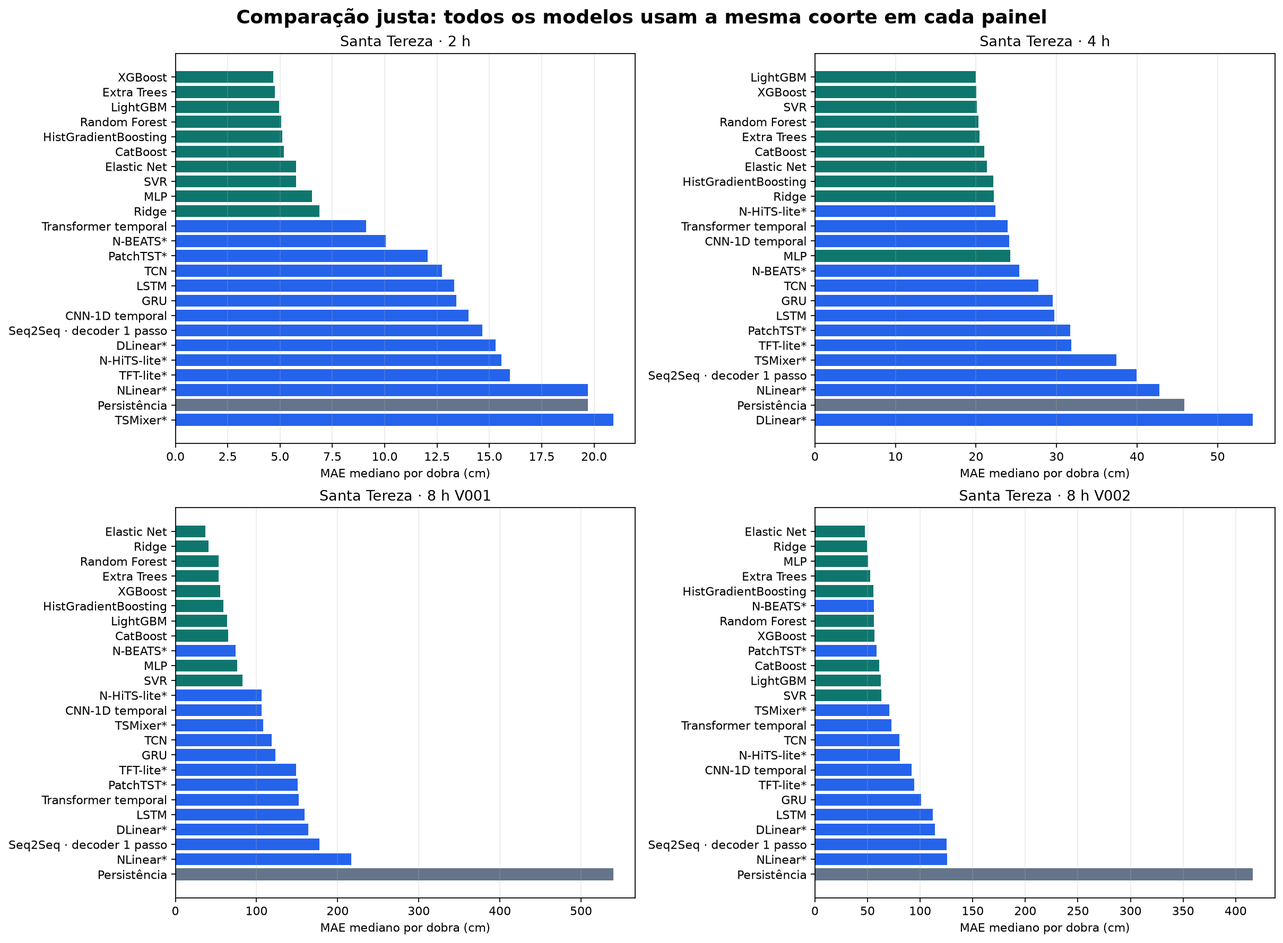
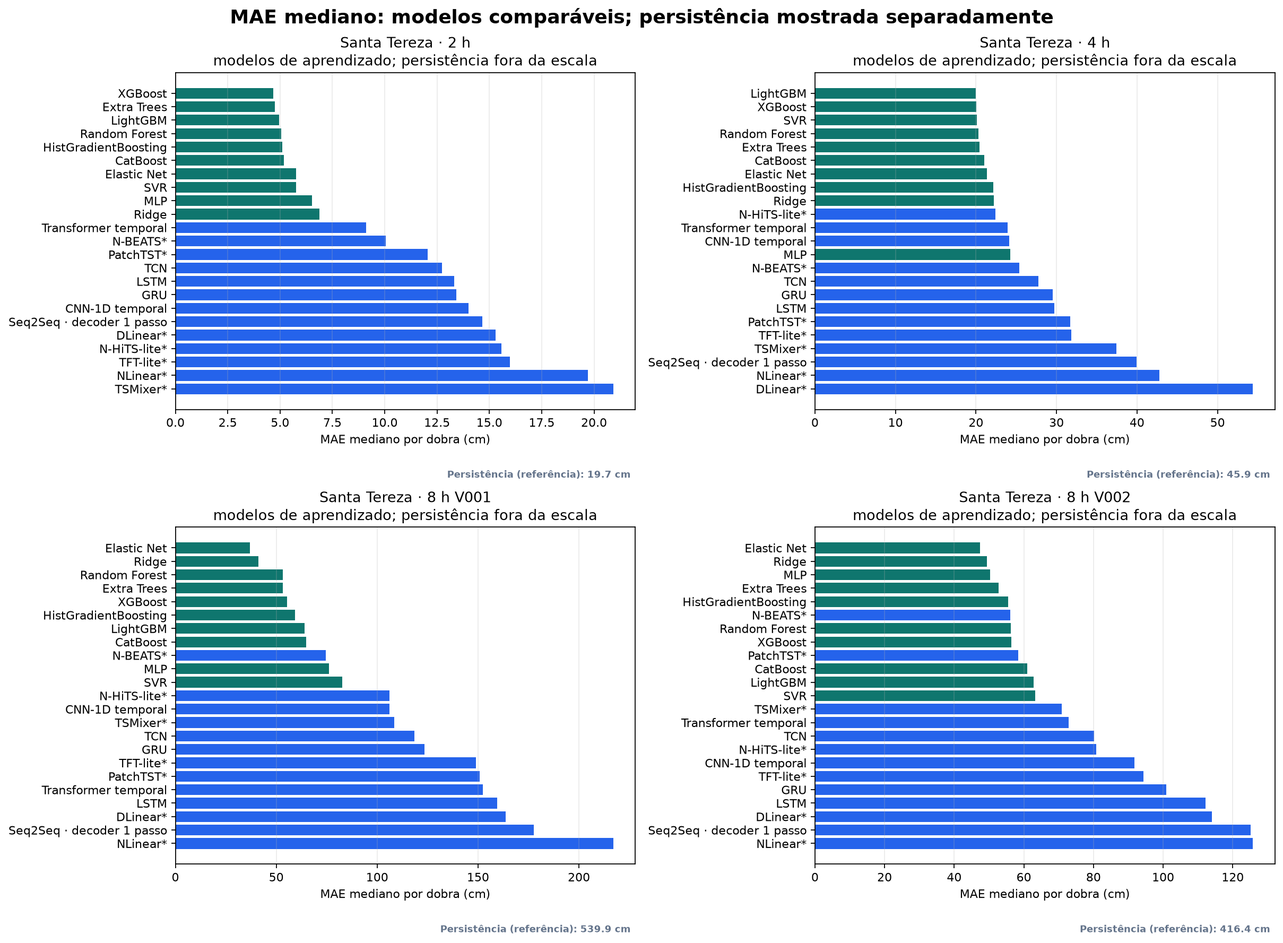
Integrate live reference and clarify persistence baseline

Changed region(s): [[0.0, 0.0, 1.0, 0.9904]]

diff --git a/pesquisas/relatorio-comparacao-justa-santa-tereza-2026/index.html b/pesquisas/relatorio-comparacao-justa-santa-tereza-2026/index.html
@@ -1,16 +1,19 @@
 <!doctype html><html lang='pt-BR'><head><meta charset='utf-8'><meta name='viewport' content='width=device-width,initial-scale=1'><title>Comparação justa de modelos · Santa Tereza</title><style>
 :root{--ink:#102a35;--muted:#58727c;--paper:#f4f7f5;--card:#fff;--line:#d8e4e1;--teal:#0f766e;--blue:#2563eb;--gold:#d97706;}*{box-sizing:border-box}body{margin:0;background:linear-gradient(135deg,#edf7f3,#f8f5ee 55%,#eef4fb);color:var(--ink);font:16px/1.55 Inter,Segoe UI,Arial,sans-serif}main{width:min(1320px,calc(100% - 32px));margin:24px auto 64px}header{padding:34px;border-radius:26px;background:#0c3b35;color:white;box-shadow:0 18px 50px #0c3b3524}header .eyebrow{letter-spacing:.12em;text-transform:uppercase;font-weight:800;color:#a7f3d0;font-size:.78rem}h1{font-size:clamp(2rem,4vw,3.5rem);line-height:1.02;margin:.5rem 0 1rem;max-width:1000px}header p{max-width:980px;color:#d7f1e8;font-size:1.08rem}.warning{margin-top:18px;background:#fff5d8;color:#5d4200;padding:14px 16px;border-left:5px solid #f59e0b;border-radius:12px}h2{margin:38px 0 12px;font-size:1.65rem}h3{margin:.1rem 0 .45rem;font-size:1.1rem}.summary{display:grid;grid-template-columns:repeat(3,1fr);gap:14px;margin:18px 0}.summary article,.metric,.card,.winner-card{background:var(--card);border:1px solid var(--line);border-radius:18px;padding:18px;box-shadow:0 10px 26px #12332b0d}.summary strong{display:block;font-size:1.35rem;margin-bottom:5px}.grid{display:grid;grid-template-columns:repeat(2,1fr);gap:16px}.read-first,.note,.formula,.legend{background:#fff;border:1px solid var(--line);border-radius:18px;padding:18px;margin:16px 0}.read-first{border-left:6px solid var(--teal)}.note{background:#fff7e8;border-left:6px solid var(--gold)}.formula{background:#eef6ff;border-left:6px solid var(--blue);font-size:1.05rem}.flow{display:grid;grid-template-columns:repeat(4,1fr);gap:10px;margin-top:14px}.flow div{background:#edf7f3;border:1px solid #c8e4db;border-radius:13px;padding:13px;font-weight:700}.flow small{display:block;font-weight:400;margin-top:5px}.winner-grid{display:grid;grid-template-columns:repeat(4,1fr);gap:12px;margin:16px 0}.winner-card{border-top:5px solid var(--teal)}.winner-card strong,.winner-card b,.winner-card span,.winner-card small{display:block}.winner-card b{font-size:1.15rem;margin:.35rem 0;color:var(--teal)}.winner-card span{font-size:.94rem}.winner-card small{margin-top:7px;color:#9a5b00}.tag{display:inline-block;border-radius:999px;padding:3px 9px;font-size:.82rem;font-weight:700;margin-right:6px}.tag.teal{background:#d8f3e9;color:#0f766e}.tag.blue{background:#dceaff;color:#1d4ed8}.tag.gray{background:#e9eef2;color:#475569}.table-note{color:var(--muted);font-size:.94rem;margin:8px 0 12px}.table-wrap{overflow:auto;background:white;border:1px solid var(--line);border-radius:18px}table{width:100%;border-collapse:collapse;min-width:1100px}th,td{padding:10px 12px;text-align:left;border-bottom:1px solid #e7eeec;vertical-align:top}th{position:sticky;top:0;background:#e9f3f0;font-size:.78rem;text-transform:uppercase;letter-spacing:.045em}figure{margin:18px 0;background:white;border:1px solid var(--line);border-radius:20px;padding:12px}figure img{display:block;width:100%;height:auto;border-radius:12px}code{background:#e8efed;padding:.15em .35em;border-radius:5px}small,span{color:var(--muted)}.method li{margin:.45rem 0}footer{margin-top:40px;color:var(--muted);font-size:.9rem;border-top:1px solid var(--line);padding-top:18px}.empty{background:white;border:1px dashed var(--line);padding:18px;border-radius:14px}@media(max-width:900px){.summary,.grid,.winner-grid{grid-template-columns:1fr}.flow{grid-template-columns:1fr 1fr}main{width:min(100% - 18px,1320px);margin-top:9px}header{padding:23px;border-radius:18px}h1{font-size:2.15rem}th,td{padding:9px}}
-</style></head><body><main><header><div class='eyebrow'>PREVINE · pesquisa experimental · comparação justa</div><h1>Todos os modelos recebem os mesmos dados antes de serem comparados.</h1><p>Rodada congelada de Santa Tereza: quatro coortes, quatro planilhas de origem, janela fixa de 4 h, mesmas linhas-alvo, mesmas dobras causais e mesma definição do erro.</p><div class='warning'><strong>Não é alerta nem modelo promovido.</strong> Este relatório é um experimento offline. A RNA atual do site e GNN/Transformer-GNN ficam fora do ranking principal quando não podem obedecer ao mesmo contrato.</div></header>
+ </style></head><body><main><header><div class='eyebrow'>PREVINE · pesquisa experimental · ao vivo + comparação controlada</div><h1>Dois resultados na mesma página, com os contratos claramente separados.</h1><p>Primeiro, a referência dos modelos que estavam publicados/ao vivo. Depois, a comparação controlada: quatro coortes, quatro planilhas de origem, janela fixa de 4 h, mesmas linhas-alvo, mesmas dobras causais e mesma definição do erro.</p><div class='warning'><strong>Não é alerta nem modelo promovido.</strong> A primeira tabela é uma referência histórica do ao vivo. O ranking principal é o benchmark controlado da segunda rodada. A RNA atual do site e GNN/Transformer-GNN ficam fora do ranking controlado quando não podem obedecer ao mesmo contrato.</div></header>
 <section class='summary'><article><strong>4 coortes congeladas</strong><span>2 h, 4 h, 8 h V001 e 8 h V002</span></article><article><strong>960 execuções concluídas</strong><span>0 falhas registradas separadamente</span></article><article><strong>1 regra de comparação</strong><span>mesmas linhas, eventos, dobras, alvo e métricas dentro de cada coorte</span></article></section>
 <section class='read-first'><h2>Leia isto primeiro: qual foi a comparação?</h2><div class='formula'><strong>Em cada horário elegível:</strong> <code>últimas 4 horas observadas</code> → <code>modelo</code> → <code>variação do nível no horizonte</code>.<br><strong>Alvo:</strong> <code>nível observado em t + horizonte − nível observado em t</code>.</div><p><strong>Resposta direta:</strong> sim, os modelos de uma mesma coorte receberam exatamente as mesmas linhas, variáveis e eventos. A diferença entre eles é o algoritmo. Existem quatro planilhas porque são quatro contratos de previsão diferentes: 2 h, 4 h, 8 h V001 e 8 h V002. Elas não foram misturadas porque isso mudaria o alvo e deixaria a comparação injusta.</p><div class='flow'><div>1 · mesma fonte<small>uma planilha/aba por coorte</small></div><div>2 · mesmo recorte<small>mesmas linhas-alvo elegíveis</small></div><div>3 · mesmo teste<small>mesmos eventos em ordem temporal</small></div><div>4 · métricas iguais<small>MAE, RMSE, NSE e pico</small></div></div></section>
+<h2>Rodada 1 — modelos publicados/ao vivo</h2><div class='note'><strong>O que esta tabela responde:</strong> “Como os modelos que estavam no ao vivo se saíram no teste-fonte usado na rodada anterior?”<br>Esta tabela é a referência da rodada anterior usando as saídas/cache dos modelos publicados. Ela serve para acompanhar o que já estava no ao vivo, mas não é o ranking principal porque usou janelas históricas diferentes e um teste-fonte separado.<br><strong>Não compare esta tabela diretamente com o ranking controlado abaixo:</strong> a rodada anterior usou janelas de 48 h, 24 h ou 4 h, dependendo do contrato, e um conjunto de teste-fonte separado.</div><div class='table-wrap'><table><thead><tr><th>Coorte</th><th>Modelo publicado/ao vivo</th><th>Janela usada (h)</th><th>Evento(s) de teste</th><th>Eventos</th><th>MAE (cm)</th><th>RMSE (cm)</th><th>NSE</th><th>Atraso abs. do pico (h)</th></tr></thead><tbody><tr><td>Santa Tereza · 2 h</td><td>RNA ao vivo · principal (009_alt...)</td><td>48</td><td>15|16</td><td>2</td><td>2.76</td><td>3.58</td><td>0.98</td><td>0.00</td></tr><tr><td>Santa Tereza · 2 h</td><td>RNA ao vivo · shadow B</td><td>48</td><td>15|16</td><td>2</td><td>3.01</td><td>3.65</td><td>0.98</td><td>0.00</td></tr><tr><td>Santa Tereza · 4 h</td><td>RNA ao vivo · 4H_ALT V01</td><td>24</td><td>13</td><td>1</td><td>13.07</td><td>22.19</td><td>0.99</td><td>2.00</td></tr><tr><td>Santa Tereza · 8 h V001</td><td>RNA ao vivo · 8h V001</td><td>4</td><td>3</td><td>1</td><td>23.80</td><td>34.06</td><td>0.93</td><td>0.00</td></tr><tr><td>Santa Tereza · 8 h V002</td><td>RNA ao vivo · 8h V002</td><td>4</td><td>3</td><td>1</td><td>22.87</td><td>37.00</td><td>0.68</td><td>0.00</td></tr></tbody></table></div><p class='table-note'><a href='source_holdout_metrics_rodada_anterior.csv'>Abrir a tabela bruta da rodada anterior</a> · os valores estão preservados para rastreabilidade.</p>
+<h2>Rodada 2 — comparação controlada no mesmo recorte</h2>
 <h2>O que foi igual</h2><div class='summary'><article><strong>Mesmas planilhas</strong><span>cada painel usa uma única planilha-fonte auditada, sem misturar V001 com V002.</span></article><article><strong>Mesmas linhas-alvo</strong><span>todos os modelos usam o mesmo conjunto de horários elegíveis após a janela de 4 h.</span></article><article><strong>Mesmas dobras</strong><span>eventos inteiros em ordem causal; treino, validação e teste são compartilhados pelos modelos.</span></article></div>
 <h2>Coortes usadas</h2><p>“Coorte” significa o conjunto de dados de um contrato específico. O número de <strong>eventos da coorte</strong> abaixo é o total disponível após os filtros. Na tabela, <strong>eventos de teste</strong> é somente o subconjunto que aparece como teste nas dobras causais — por isso os dois números podem ser diferentes.</p><div class='summary'><article><strong>Santa Tereza · 2 h</strong><span>2502 linhas-alvo · 21 eventos · 12 dobras</span><small>planilha: 2H_ALT__009_alt_STZ_2H_R09_T10-15-16_V1-5-12-17-21.xlsx<br>features/hora: 15 · janela fixa: 4 h</small></article><article><strong>Santa Tereza · 4 h</strong><span>1798 linhas-alvo · 22 eventos · 13 dobras</span><small>planilha: 4H_ALT__V01_R00_BASELINE_nh52_nit10_cic100000.xlsx<br>features/hora: 26 · janela fixa: 4 h</small></article><article><strong>Santa Tereza · 8 h V001</strong><span>1091 linhas-alvo · 22 eventos · 11 dobras</span><small>planilha: modelo_8h_V001_CORRIGIDO_GUARDAS_20260825_235111.xlsx<br>features/hora: 31 · janela fixa: 4 h</small></article><article><strong>Santa Tereza · 8 h V002</strong><span>478 linhas-alvo · 15 eventos · 4 dobras</span><small>planilha: modelo_8h_V002_CORRIGIDO_GUARDAS_20260825_235111.xlsx<br>features/hora: 28 · janela fixa: 4 h</small></article></div><div class='note'><strong>Por que V002 exige mais cautela?</strong> Ele tem somente 4 dobras causais. O resultado foi mantido porque é útil para investigação, mas tem menos evidência do que os contratos com 11–13 dobras.</div>
 <h2>Como ler o resultado</h2><div class='grid'><article class='card'><h3>Ranking</h3><p>A posição é calculada dentro de cada coorte: primeiro pela mediana do MAE entre as dobras e, em caso de proximidade, pelo RMSE. Não é uma classificação única para todos os horizontes.</p></article><article class='card'><h3>O que é uma dobra?</h3><p>Uma dobra é uma repetição temporal: eventos anteriores treinam, um evento seguinte valida e o próximo evento é testado. Nenhum evento futuro volta para o passado.</p></article><article class='card'><h3>O que significa “melhor”?</h3><p>MAE, RMSE e erro do pico menores são melhores. NSE mais próximo de 1 é melhor. Atraso do pico mais próximo de 0 h é melhor.</p></article><article class='card'><h3>Não compare cm entre horizontes</h3><p>4,68 cm em 2 h não pode ser comparado diretamente com 36,98 cm em 8 h. O horizonte mais longo é outro problema, com outra dificuldade e outro alvo.</p></article></div><div class='legend'><strong>Famílias nos gráficos:</strong> <span class='tag teal'>tabular/boosting</span><span class='tag blue'>redes temporais</span><span class='tag gray'>baseline</span></div>
 <h2>Melhor resultado por coorte</h2><p>Estas são as melhores posições dentro de cada contrato, não um vencedor universal do PREVINE.</p><div class='winner-grid'><article class='winner-card'><strong>Santa Tereza · 2 h</strong><b>XGBoost</b><span>MAE mediano: 4.68 cm · RMSE: 7.82 cm</span><small></small></article><article class='winner-card'><strong>Santa Tereza · 4 h</strong><b>LightGBM</b><span>MAE mediano: 20.00 cm · RMSE: 29.57 cm</span><small></small></article><article class='winner-card'><strong>Santa Tereza · 8 h V001</strong><b>Elastic Net</b><span>MAE mediano: 36.98 cm · RMSE: 49.72 cm</span><small></small></article><article class='winner-card'><strong>Santa Tereza · 8 h V002</strong><b>Elastic Net</b><span>MAE mediano: 47.48 cm · RMSE: 53.53 cm</span><small>Amostra mais curta: apenas 4 dobras causais.</small></article></div>
 <h2>Resultado comparável — tabela completa</h2><p class='table-note'>A tabela é mais larga que a tela do celular. Deslize horizontalmente para ver as colunas finais. Para uma primeira leitura, use os cartões acima e os gráficos abaixo.</p><div class='table-wrap'><table><thead><tr><th>Coorte</th><th>Modelo</th><th>Família</th><th>Dobras causais</th><th>Eventos de teste</th><th>MAE mediano (cm)</th><th>RMSE mediano (cm)</th><th>NSE mediano</th><th>Erro do pico (cm)</th><th>Atraso do pico (h)</th><th>Posição</th></tr></thead><tbody><tr><td>Santa Tereza · 2 h</td><td>XGBoost</td><td>tabular/boosting</td><td>12</td><td>12</td><td>4.68</td><td>7.82</td><td>1.00</td><td>3.49</td><td>0.00</td><td>1</td></tr><tr><td>Santa Tereza · 2 h</td><td>Extra Trees</td><td>tabular/boosting</td><td>12</td><td>12</td><td>4.75</td><td>8.12</td><td>1.00</td><td>4.25</td><td>0.00</td><td>2</td></tr><tr><td>Santa Tereza · 2 h</td><td>LightGBM</td><td>tabular/boosting</td><td>12</td><td>12</td><td>4.95</td><td>8.67</td><td>1.00</td><td>5.22</td><td>0.00</td><td>3</td></tr><tr><td>Santa Tereza · 2 h</td><td>Random Forest</td><td>tabular/boosting</td><td>12</td><td>12</td><td>5.06</td><td>8.47</td><td>1.00</td><td>4.14</td><td>0.00</td><td>4</td></tr><tr><td>Santa Tereza · 2 h</td><td>HistGradientBoosting</td><td>tabular/boosting</td><td>12</td><td>12</td><td>5.10</td><td>8.81</td><td>1.00</td><td>5.07</td><td>0.00</td><td>5</td></tr><tr><td>Santa Tereza · 2 h</td><td>CatBoost</td><td>tabular/boosting</td><td>12</td><td>12</td><td>5.18</td><td>8.50</td><td>1.00</td><td>6.07</td><td>0.50</td><td>6</td></tr><tr><td>Santa Tereza · 2 h</td><td>Elastic Net</td><td>tabular/boosting</td><td>12</td><td>12</td><td>5.76</td><td>8.45</td><td>1.00</td><td>6.20</td><td>0.00</td><td>7</td></tr><tr><td>Santa Tereza · 2 h</td><td>SVR</td><td>tabular/boosting</td><td>12</td><td>12</td><td>5.76</td><td>8.52</td><td>1.00</td><td>5.57</td><td>1.00</td><td>8</td></tr><tr><td>Santa Tereza · 2 h</td><td>MLP</td><td>tabular/boosting</td><td>12</td><td>12</td><td>6.54</td><td>9.23</td><td>1.00</td><td>9.77</td><td>0.00</td><td>9</td></tr><tr><td>Santa Tereza · 2 h</td><td>Ridge</td><td>tabular/boosting</td><td>12</td><td>12</td><td>6.88</td><td>8.96</td><td>1.00</td><td>8.50</td><td>0.00</td><td>10</td></tr><tr><td>Santa Tereza · 2 h</td><td>Transformer temporal</td><td>temporal neural</td><td>12</td><td>12</td><td>9.11</td><td>12.52</td><td>0.99</td><td>21.47</td><td>1.00</td><td>11</td></tr><tr><td>Santa Tereza · 2 h</td><td>N-BEATS experimental</td><td>temporal neural</td><td>12</td><td>12</td><td>10.06</td><td>14.84</td><td>0.99</td><td>9.12</td><td>1.00</td><td>12</td></tr><tr><td>Santa Tereza · 2 h</td><td>PatchTST experimental</td><td>temporal neural</td><td>12</td><td>12</td><td>12.05</td><td>17.90</td><td>0.98</td><td>18.73</td><td>1.00</td><td>13</td></tr><tr><td>Santa Tereza · 2 h</td><td>TCN</td><td>temporal neural</td><td>12</td><td>12</td><td>12.75</td><td>17.87</td><td>0.98</td><td>7.57</td><td>1.00</td><td>14</td></tr><tr><td>Santa Tereza · 2 h</td><td>LSTM</td><td>temporal neural</td><td>12</td><td>12</td><td>13.31</td><td>19.05</td><td>0.98</td><td>12.18</td><td>1.00</td><td>15</td></tr><tr><td>Santa Tereza · 2 h</td><td>GRU</td><td>temporal neural</td><td>12</td><td>12</td><td>13.42</td><td>18.78</td><td>0.98</td><td>14.90</td><td>1.00</td><td>16</td></tr><tr><td>Santa Tereza · 2 h</td><td>CNN-1D temporal</td><td>temporal neural</td><td>12</td><td>12</td><td>14.00</td><td>19.47</td><td>0.98</td><td>15.18</td><td>1.00</td><td>17</td></tr><tr><td>Santa Tereza · 2 h</td><td>Seq2Seq · decoder 1 passo</td><td>temporal neural</td><td>12</td><td>12</td><td>14.67</td><td>22.05</td><td>0.97</td><td>12.46</td><td>1.00</td><td>18</td></tr><tr><td>Santa Tereza · 2 h</td><td>DLinear experimental</td><td>temporal neural</td><td>12</td><td>12</td><td>15.29</td><td>20.63</td><td>0.98</td><td>14.02</td><td>1.00</td><td>19</td></tr><tr><td>Santa Tereza · 2 h</td><td>N-HiTS-lite experimental</td><td>temporal neural</td><td>12</td><td>12</td><td>15.59</td><td>21.07</td><td>0.98</td><td>12.34</td><td>1.00</td><td>20</td></tr><tr><td>Santa Tereza · 2 h</td><td>TFT-lite experimental</td><td>temporal neural</td><td>12</td><td>12</td><td>15.98</td><td>20.86</td><td>0.98</td><td>14.95</td><td>1.00</td><td>21</td></tr><tr><td>Santa Tereza · 2 h</td><td>NLinear experimental</td><td>temporal neural</td><td>12</td><td>12</td><td>19.71</td><td>28.94</td><td>0.95</td><td>6.89</td><td>2.00</td><td>22</td></tr><tr><td>Santa Tereza · 2 h</td><td>Persistência</td><td>baseline</td><td>12</td><td>12</td><td>19.72</td><td>30.34</td><td>0.94</td><td>0.00</td><td>2.00</td><td>23</td></tr><tr><td>Santa Tereza · 2 h</td><td>TSMixer experimental</td><td>temporal neural</td><td>12</td><td>12</td><td>20.93</td><td>28.19</td><td>0.96</td><td>17.35</td><td>2.00</td><td>24</td></tr><tr><td>Santa Tereza · 4 h</td><td>LightGBM</td><td>tabular/boosting</td><td>13</td><td>13</td><td>20.00</td><td>29.57</td><td>0.94</td><td>23.46</td><td>2.00</td><td>1</td></tr><tr><td>Santa Tereza · 4 h</td><td>XGBoost</td><td>tabular/boosting</td><td>13</td><td>13</td><td>20.06</td><td>24.74</td><td>0.95</td><td>16.70</td><td>1.00</td><td>2</td></tr><tr><td>Santa Tereza · 4 h</td><td>SVR</td><td>tabular/boosting</td><td>13</td><td>13</td><td>20.11</td><td>26.69</td><td>0.92</td><td>16.77</td><td>1.00</td><td>3</td></tr><tr><td>Santa Tereza · 4 h</td><td>Random Forest</td><td>tabular/boosting</td><td>13</td><td>13</td><td>20.29</td><td>26.51</td><td>0.94</td><td>14.15</td><td>1.00</td><td>4</td></tr><tr><td>Santa Tereza · 4 h</td><td>Extra Trees</td><td>tabular/boosting</td><td>13</td><td>13</td><td>20.41</td><td>26.19</td><td>0.94</td><td>11.02</td><td>1.00</td><td>5</td></tr><tr><td>Santa Tereza · 4 h</td><td>CatBoost</td><td>tabular/boosting</td><td>13</td><td>13</td><td>21.00</td><td>26.68</td><td>0.94</td><td>15.69</td><td>1.00</td><td>6</td></tr><tr><td>Santa Tereza · 4 h</td><td>Elastic Net</td><td>tabular/boosting</td><td>13</td><td>13</td><td>21.37</td><td>25.34</td><td>0.94</td><td>17.14</td><td>1.00</td><td>7</td></tr><tr><td>Santa Tereza · 4 h</td><td>HistGradientBoosting</td><td>tabular/boosting</td><td>13</td><td>13</td><td>22.12</td><td>29.51</td><td>0.92</td><td>7.99</td><td>1.00</td><td>8</td></tr><tr><td>Santa Tereza · 4 h</td><td>Ridge</td><td>tabular/boosting</td><td>13</td><td>13</td><td>22.22</td><td>27.23</td><td>0.94</td><td>17.02</td><td>1.00</td><td>9</td></tr><tr><td>Santa Tereza · 4 h</td><td>N-HiTS-lite experimental</td><td>temporal neural</td><td>13</td><td>13</td><td>22.42</td><td>28.60</td><td>0.90</td><td>19.26</td><td>1.00</td><td>10</td></tr><tr><td>Santa Tereza · 4 h</td><td>Transformer temporal</td><td>temporal neural</td><td>13</td><td>13</td><td>23.90</td><td>29.79</td><td>0.90</td><td>30.91</td><td>1.00</td><td>11</td></tr><tr><td>Santa Tereza · 4 h</td><td>CNN-1D temporal</td><td>temporal neural</td><td>13</td><td>13</td><td>24.15</td><td>32.34</td><td>0.88</td><td>17.88</td><td>1.00</td><td>12</td></tr><tr><td>Santa Tereza · 4 h</td><td>MLP</td><td>tabular/boosting</td><td>13</td><td>13</td><td>24.29</td><td>29.60</td><td>0.88</td><td>10.41</td><td>1.00</td><td>13</td></tr><tr><td>Santa Tereza · 4 h</td><td>N-BEATS experimental</td><td>temporal neural</td><td>13</td><td>13</td><td>25.36</td><td>31.91</td><td>0.91</td><td>31.78</td><td>2.00</td><td>14</td></tr><tr><td>Santa Tereza · 4 h</td><td>TCN</td><td>temporal neural</td><td>13</td><td>13</td><td>27.76</td><td>35.26</td><td>0.88</td><td>14.50</td><td>1.00</td><td>15</td></tr><tr><td>Santa Tereza · 4 h</td><td>GRU</td><td>temporal neural</td><td>13</td><td>13</td><td>29.50</td><td>36.57</td><td>0.86</td><td>16.72</td><td>1.00</td><td>16</td></tr><tr><td>Santa Tereza · 4 h</td><td>LSTM</td><td>temporal neural</td><td>13</td><td>13</td><td>29.70</td><td>39.14</td><td>0.79</td><td>18.26</td><td>2.00</td><td>17</td></tr><tr><td>Santa Tereza · 4 h</td><td>PatchTST experimental</td><td>temporal neural</td><td>13</td><td>13</td><td>31.73</td><td>35.97</td><td>0.75</td><td>39.81</td><td>2.00</td><td>18</td></tr><tr><td>Santa Tereza · 4 h</td><td>TFT-lite experimental</td><td>temporal neural</td><td>13</td><td>13</td><td>31.82</td><td>40.26</td><td>0.85</td><td>10.12</td><td>3.00</td><td>19</td></tr><tr><td>Santa Tereza · 4 h</td><td>TSMixer experimental</td><td>temporal neural</td><td>13</td><td>13</td><td>37.43</td><td>46.08</td><td>0.72</td><td>42.51</td><td>3.00</td><td>20</td></tr><tr><td>Santa Tereza · 4 h</td><td>Seq2Seq · decoder 1 passo</td><td>temporal neural</td><td>13</td><td>13</td><td>39.95</td><td>49.33</td><td>0.77</td><td>23.02</td><td>2.00</td><td>21</td></tr><tr><td>Santa Tereza · 4 h</td><td>NLinear experimental</td><td>temporal neural</td><td>13</td><td>13</td><td>42.80</td><td>55.96</td><td>0.60</td><td>59.58</td><td>2.00</td><td>22</td></tr><tr><td>Santa Tereza · 4 h</td><td>Persistência</td><td>baseline</td><td>13</td><td>13</td><td>45.86</td><td>60.69</td><td>0.56</td><td>0.00</td><td>4.00</td><td>23</td></tr><tr><td>Santa Tereza · 4 h</td><td>DLinear experimental</td><td>temporal neural</td><td>13</td><td>13</td><td>54.40</td><td>75.04</td><td>0.29</td><td>35.56</td><td>5.00</td><td>24</td></tr><tr><td>Santa Tereza · 8 h V001</td><td>Elastic Net</td><td>tabular/boosting</td><td>11</td><td>11</td><td>36.98</td><td>49.72</td><td>0.69</td><td>60.21</td><td>2.00</td><td>1</td></tr><tr><td>Santa Tereza · 8 h V001</td><td>Ridge</td><td>tabular/boosting</td><td>11</td><td>11</td><td>41.13</td><td>53.29</td><td>0.65</td><td>43.11</td><td>2.00</td><td>2</td></tr><tr><td>Santa Tereza · 8 h V001</td><td>Random Forest</td><td>tabular/boosting</td><td>11</td><td>11</td><td>53.18</td><td>71.22</td><td>0.30</td><td>63.12</td><td>2.00</td><td>3</td></tr><tr><td>Santa Tereza · 8 h V001</td><td>Extra Trees</td><td>tabular/boosting</td><td>11</td><td>11</td><td>53.28</td><td>72.72</td><td>0.42</td><td>99.66</td><td>4.00</td><td>4</td></tr><tr><td>Santa Tereza · 8 h V001</td><td>XGBoost</td><td>tabular/boosting</td><td>11</td><td>11</td><td>55.42</td><td>83.05</td><td>0.49</td><td>68.90</td><td>4.00</td><td>5</td></tr><tr><td>Santa Tereza · 8 h V001</td><td>HistGradientBoosting</td><td>tabular/boosting</td><td>11</td><td>11</td><td>59.22</td><td>81.75</td><td>0.11</td><td>81.66</td><td>3.00</td><td>6</td></tr><tr><td>Santa Tereza · 8 h V001</td><td>LightGBM</td><td>tabular/boosting</td><td>11</td><td>11</td><td>63.90</td><td>84.31</td><td>0.46</td><td>42.03</td><td>2.00</td><td>7</td></tr><tr><td>Santa Tereza · 8 h V001</td><td>CatBoost</td><td>tabular/boosting</td><td>11</td><td>11</td><td>64.93</td><td>82.59</td><td>0.25</td><td>73.62</td><td>5.00</td><td>8</td></tr><tr><td>Santa Tereza · 8 h V001</td><td>N-BEATS experimental</td><td>temporal neural</td><td>11</td><td>11</td><td>74.52</td><td>88.93</td><td>-0.05</td><td>100.26</td><td>2.00</td><td>9</td></tr><tr><td>Santa Tereza · 8 h V001</td><td>MLP</td><td>tabular/boosting</td><td>11</td><td>11</td><td>76.13</td><td>93.34</td><td>0.09</td><td>61.22</td><td>2.00</td><td>10</td></tr><tr><td>Santa Tereza · 8 h V001</td><td>SVR</td><td>tabular/boosting</td><td>11</td><td>11</td><td>82.68</td><td>122.20</td><td>-0.53</td><td>84.47</td><td>5.00</td><td>11</td></tr><tr><td>Santa Tereza · 8 h V001</td><td>N-HiTS-lite experimental</td><td>temporal neural</td><td>11</td><td>11</td><td>105.97</td><td>139.21</td><td>-0.66</td><td>143.60</td><td>4.00</td><td>12</td></tr><tr><td>Santa Tereza · 8 h V001</td><td>CNN-1D temporal</td><td>temporal neural</td><td>11</td><td>11</td><td>106.22</td><td>140.73</td><td>-1.64</td><td>95.32</td><td>5.00</td><td>13</td></tr><tr><td>Santa Tereza · 8 h V001</td><td>TSMixer experimental</td><td>temporal neural</td><td>11</td><td>11</td><td>108.52</td><td>141.56</td><td>-1.06</td><td>50.13</td><td>14.00</td><td>14</td></tr><tr><td>Santa Tereza · 8 h V001</td><td>TCN</td><td>temporal neural</td><td>11</td><td>11</td><td>118.54</td><td>144.21</td><td>-0.90</td><td>122.48</td><td>8.00</td><td>15</td></tr><tr><td>Santa Tereza · 8 h V001</td><td>GRU</td><td>temporal neural</td><td>11</td><td>11</td><td>123.33</td><td>148.84</td><td>-1.24</td><td>101.82</td><td>5.00</td><td>16</td></tr><tr><td>Santa Tereza · 8 h V001</td><td>TFT-lite experimental</td><td>temporal neural</td><td>11</td><td>11</td><td>149.04</td><td>171.30</td><td>-2.37</td><td>97.58</td><td>8.00</td><td>17</td></tr><tr><td>Santa Tereza · 8 h V001</td><td>PatchTST experimental</td><td>temporal neural</td><td>11</td><td>11</td><td>150.87</td><td>185.75</td><td>-4.69</td><td>123.48</td><td>7.00</td><td>18</td></tr><tr><td>Santa Tereza · 8 h V001</td><td>Transformer temporal</td><td>temporal neural</td><td>11</td><td>11</td><td>152.28</td><td>184.73</td><td>-5.03</td><td>174.39</td><td>11.00</td><td>19</td></tr><tr><td>Santa Tereza · 8 h V001</td><td>LSTM</td><td>temporal neural</td><td>11</td><td>11</td><td>159.52</td><td>197.22</td><td>-3.69</td><td>104.44</td><td>8.00</td><td>20</td></tr><tr><td>Santa Tereza · 8 h V001</td><td>DLinear experimental</td><td>temporal neural</td><td>11</td><td>11</td><td>163.81</td><td>222.67</td><td>-3.80</td><td>151.93</td><td>5.00</td><td>21</td></tr><tr><td>Santa Tereza · 8 h V001</td><td>Seq2Seq · decoder 1 passo</td><td>temporal neural</td><td>11</td><td>11</td><td>177.66</td><td>199.98</td><td>-3.60</td><td>135.74</td><td>8.00</td><td>22</td></tr><tr><td>Santa Tereza · 8 h V001</td><td>NLinear experimental</td><td>temporal neural</td><td>11</td><td>11</td><td>217.09</td><td>274.29</td><td>-9.55</td><td>164.52</td><td>25.00</td><td>23</td></tr><tr><td>Santa Tereza · 8 h V001</td><td>Persistência</td><td>baseline</td><td>11</td><td>11</td><td>539.90</td><td>558.17</td><td>-34.62</td><td>465.00</td><td>19.00</td><td>24</td></tr><tr><td>Santa Tereza · 8 h V002</td><td>Elastic Net</td><td>tabular/boosting</td><td>4</td><td>4</td><td>47.48</td><td>53.53</td><td>0.63</td><td>35.41</td><td>1.50</td><td>1</td></tr><tr><td>Santa Tereza · 8 h V002</td><td>Ridge</td><td>tabular/boosting</td><td>4</td><td>4</td><td>49.32</td><td>55.99</td><td>0.59</td><td>29.03</td><td>1.50</td><td>2</td></tr><tr><td>Santa Tereza · 8 h V002</td><td>MLP</td><td>tabular/boosting</td><td>4</td><td>4</td><td>50.30</td><td>61.98</td><td>0.34</td><td>37.77</td><td>4.00</td><td>3</td></tr><tr><td>Santa Tereza · 8 h V002</td><td>Extra Trees</td><td>tabular/boosting</td><td>4</td><td>4</td><td>52.67</td><td>65.23</td><td>0.26</td><td>73.11</td><td>9.50</td><td>4</td></tr><tr><td>Santa Tereza · 8 h V002</td><td>HistGradientBoosting</td><td>tabular/boosting</td><td>4</td><td>4</td><td>55.44</td><td>66.65</td><td>0.10</td><td>70.51</td><td>11.50</td><td>5</td></tr><tr><td>Santa Tereza · 8 h V002</td><td>N-BEATS experimental</td><td>temporal neural</td><td>4</td><td>4</td><td>56.08</td><td>66.10</td><td>0.35</td><td>34.36</td><td>3.50</td><td>6</td></tr><tr><td>Santa Tereza · 8 h V002</td><td>Random Forest</td><td>tabular/boosting</td><td>4</td><td>4</td><td>56.21</td><td>65.25</td><td>0.32</td><td>89.48</td><td>3.00</td><td>7</td></tr><tr><td>Santa Tereza · 8 h V002</td><td>XGBoost</td><td>tabular/boosting</td><td>4</td><td>4</td><td>56.38</td><td>67.34</td><td>0.06</td><td>62.04</td><td>3.50</td><td>8</td></tr><tr><td>Santa Tereza · 8 h V002</td><td>PatchTST experimental</td><td>temporal neural</td><td>4</td><td>4</td><td>58.40</td><td>76.12</td><td>-0.22</td><td>37.76</td><td>3.00</td><td>9</td></tr><tr><td>Santa Tereza · 8 h V002</td><td>CatBoost</td><td>tabular/boosting</td><td>4</td><td>4</td><td>60.95</td><td>72.24</td><td>0.11</td><td>95.66</td><td>4.00</td><td>10</td></tr><tr><td>Santa Tereza · 8 h V002</td><td>LightGBM</td><td>tabular/boosting</td><td>4</td><td>4</td><td>62.79</td><td>73.33</td><td>0.06</td><td>72.13</td><td>11.50</td><td>11</td></tr><tr><td>Santa Tereza · 8 h V002</td><td>SVR</td><td>tabular/boosting</td><td>4</td><td>4</td><td>63.30</td><td>74.93</td><td>-0.05</td><td>71.87</td><td>13.50</td><td>12</td></tr><tr><td>Santa Tereza · 8 h V002</td><td>TSMixer experimental</td><td>temporal neural</td><td>4</td><td>4</td><td>70.91</td><td>81.63</td><td>0.02</td><td>101.71</td><td>26.50</td><td>13</td></tr><tr><td>Santa Tereza · 8 h V002</td><td>Transformer temporal</td><td>temporal neural</td><td>4</td><td>4</td><td>72.82</td><td>91.65</td><td>-0.69</td><td>46.20</td><td>5.50</td><td>14</td></tr><tr><td>Santa Tereza · 8 h V002</td><td>TCN</td><td>temporal neural</td><td>4</td><td>4</td><td>80.17</td><td>102.44</td><td>-0.34</td><td>107.45</td><td>5.00</td><td>15</td></tr><tr><td>Santa Tereza · 8 h V002</td><td>N-HiTS-lite experimental</td><td>temporal neural</td><td>4</td><td>4</td><td>80.79</td><td>100.86</td><td>-0.28</td><td>74.03</td><td>6.00</td><td>16</td></tr><tr><td>Santa Tereza · 8 h V002</td><td>CNN-1D temporal</td><td>temporal neural</td><td>4</td><td>4</td><td>91.71</td><td>119.52</td><td>-0.94</td><td>31.57</td><td>5.00</td><td>17</td></tr><tr><td>Santa Tereza · 8 h V002</td><td>TFT-lite experimental</td><td>temporal neural</td><td>4</td><td>4</td><td>94.34</td><td>118.59</td><td>-0.92</td><td>42.66</td><td>7.50</td><td>18</td></tr><tr><td>Santa Tereza · 8 h V002</td><td>GRU</td><td>temporal neural</td><td>4</td><td>4</td><td>100.87</td><td>131.19</td><td>-1.83</td><td>101.11</td><td>5.00</td><td>19</td></tr><tr><td>Santa Tereza · 8 h V002</td><td>LSTM</td><td>temporal neural</td><td>4</td><td>4</td><td>112.21</td><td>141.16</td><td>-2.00</td><td>97.22</td><td>5.00</td><td>20</td></tr><tr><td>Santa Tereza · 8 h V002</td><td>DLinear experimental</td><td>temporal neural</td><td>4</td><td>4</td><td>114.03</td><td>142.38</td><td>-1.90</td><td>144.64</td><td>16.50</td><td>21</td></tr><tr><td>Santa Tereza · 8 h V002</td><td>Seq2Seq · decoder 1 passo</td><td>temporal neural</td><td>4</td><td>4</td><td>125.14</td><td>157.46</td><td>-2.76</td><td>149.39</td><td>18.00</td><td>22</td></tr><tr><td>Santa Tereza · 8 h V002</td><td>NLinear experimental</td><td>temporal neural</td><td>4</td><td>4</td><td>125.81</td><td>155.86</td><td>-3.03</td><td>107.56</td><td>23.00</td><td>23</td></tr><tr><td>Santa Tereza · 8 h V002</td><td>Persistência</td><td>baseline</td><td>4</td><td>4</td><td>416.43</td><td>439.83</td><td>-37.76</td><td>351.00</td><td>19.50</td><td>24</td></tr></tbody></table></div>
+<h2>Por que a persistência aparece tão alta?</h2><div class='note'><strong>Ela está correta e é necessária, mas não é uma rede neural.</strong> A persistência é o baseline: repete o nível atual e, portanto, prevê que a variação futura será zero. Quando o rio sobe, o erro cresce — especialmente em horizontes de 8 h. Os MAE medianos da persistência nesta rodada foram: Santa Tereza · 2 h: 19.7 cm · Santa Tereza · 4 h: 45.9 cm · Santa Tereza · 8 h V001: 539.9 cm · Santa Tereza · 8 h V002: 416.4 cm. Ela foi retirada da escala dos gráficos de barras para não esmagar visualmente os demais modelos; continua indicada em cada painel e permanece na tabela completa.</div>
 <h2>Gráficos</h2><figure><img src='charts/01_mae_mediano_mesma_coorte.png' alt='Barras de MAE mediano por modelo nas quatro coortes'></figure><figure><img src='charts/02_mae_vs_rmse_justo.png' alt='Dispersão de MAE e RMSE por modelo nas quatro coortes'></figure><figure><img src='charts/03_nse_e_atraso_dos_melhores.png' alt='Comparação de NSE e atraso do pico'></figure><figure><img src='charts/04_cobertura_modelos_por_coorte.png' alt='Quantidade de modelos concluídos por família e coorte'></figure>
 <h2>Glossário rápido das métricas</h2><div class='grid'><article class='card'><h3>MAE</h3><p>Erro absoluto médio, em centímetros. Diz quanto a previsão erra, em média, sem deixar erros grandes dominarem tanto. <strong>Quanto menor, melhor.</strong></p></article><article class='card'><h3>RMSE</h3><p>Erro quadrático médio. Penaliza mais fortemente erros grandes e picos mal previstos. <strong>Quanto menor, melhor.</strong></p></article><article class='card'><h3>NSE</h3><p>Compara o modelo com uma referência baseada na média observada. 1 é ajuste perfeito; 0 equivale à referência; valores negativos indicam desempenho pior que essa referência.</p></article><article class='card'><h3>Erro e atraso do pico</h3><p>O erro do pico é a diferença de magnitude entre os picos. O atraso do pico é a diferença de horário; o valor ideal é próximo de 0 h.</p></article></div>
 <h2>Modelos que entraram no ranking</h2><ul class='method'><li><strong>Baseline:</strong> persistência.</li><li><strong>Modelos estáticos/boosting:</strong> Ridge, Elastic Net, SVR, MLP, Random Forest, Extra Trees, HistGradientBoosting, XGBoost, LightGBM, CatBoost.</li><li><strong>Redes temporais:</strong> CNN-1D temporal, LSTM, GRU, TCN, Seq2Seq · decoder 1 passo, Transformer temporal, DLinear experimental, NLinear experimental, TSMixer experimental, N-BEATS experimental, N-HiTS-lite experimental, PatchTST experimental, TFT-lite experimental.</li><li><strong>Mesma informação:</strong> os estáticos recebem o tensor das quatro horas achatado; as redes temporais recebem o mesmo tensor como sequência.</li></ul>
 <h2>O que ficou fora — de propósito</h2><ul class='method'><li>A RNA que está no site não foi re-treinada neste contrato comum; seus números de cache não foram misturados ao ranking.</li><li>GNN e Transformer-GNN não foram inventados nem simulados: faltam grafo hidrológico, arestas, direção e tempo de propagação auditados.</li><li>Os resultados não validam mancha, HAND/MDT, rota, abrigo ou alerta.</li></ul>
  <h2>Auditoria de dados e reprodução</h2><ul class='method'><li>Features restritas a <code>input_*</code>; colunas futuras proibidas não foram aceitas.</li><li>Cada coorte foi verificada quanto a duplicidades de evento-horário.</li><li>Normalização dos modelos foi ajustada somente nos dados de treino de cada dobra.</li><li>Os hashes SHA-256 das planilhas estão registrados no manifesto: <code>strict_common_manifest.json</code>.</li></ul><h3>Planilhas auditadas e seus hashes</h3><ul class='method'><li><code>stz_2h</code> · 33487bf862aea460c336bf098bbb3defe5dd2a0f1bd49396cfb78a18a34371e2</li><li><code>stz_4h</code> · ee1e3b4a06c35a61c7eaefbb1128d61c47fc4582113c5cb65ea53bb5ebf57724</li><li><code>stz_8h_v001</code> · e675e77b671dbb6ac20e4a46230b851ca33b3a789ae6dbaa2a1c6409eb2ba9f6</li><li><code>stz_8h_v002</code> · 9d036026b8dedb7da90f285ca39f1b13c53f194266d18ddfd46d106874044edc</li></ul>
-<footer>Gerado em 2026-09-19T22:12:33-0300. Artefato offline de pesquisa; os dados-fonte e o feed público não foram modificados.<br><a href='strict_common_manifest.json'>manifesto e hashes</a> · <a href='strict_common_aggregate.csv'>métricas agregadas</a> · <a href='strict_common_metrics_per_event.csv'>métricas por evento</a> · <a href='strict_common_metrics_per_fold.csv'>métricas por dobra</a> · <a href='strict_common_status.csv'>status das execuções</a></footer></main></body></html>
+ <footer>Gerado em 2026-09-19T22:12:33-0300. Artefato offline de pesquisa; os dados-fonte e o feed público não foram modificados.<br><a href='strict_common_manifest.json'>manifesto e hashes</a> · <a href='strict_common_aggregate.csv'>métricas agregadas</a> · <a href='strict_common_metrics_per_event.csv'>métricas por evento</a> · <a href='strict_common_metrics_per_fold.csv'>métricas por dobra</a> · <a href='strict_common_status.csv'>status das execuções</a> · <a href='source_holdout_metrics_rodada_anterior.csv'>rodada anterior ao vivo</a></footer></main></body></html>
